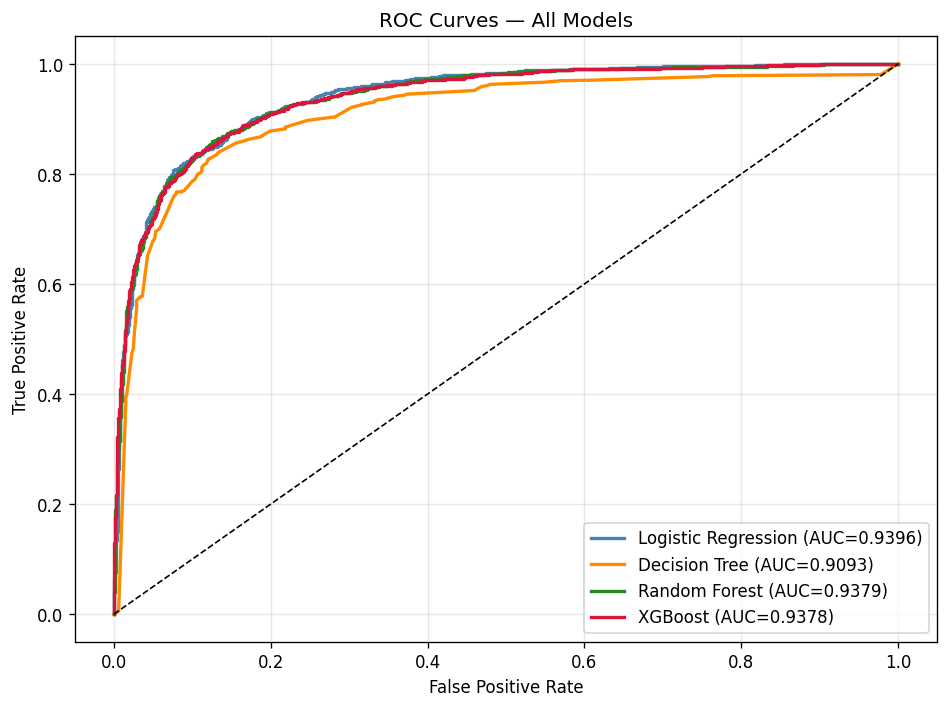
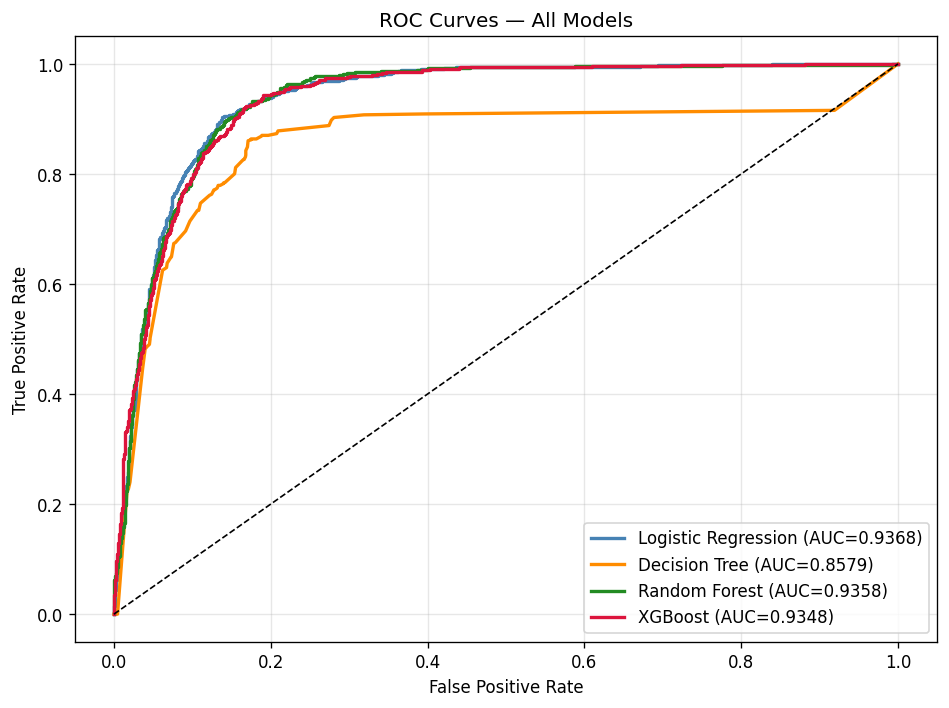
train_model.py, shap_service.py, ml_service.py

Changed region(s): [[0.0917, 0.0621, 0.9473, 0.8701], [0.8556, 0.7768, 0.9168, 0.8079], [0.9473, 0.7458, 0.9779, 0.7768]]

diff --git a/backend/ml/train_model.py b/backend/ml/train_model.py
@@ -160,11 +160,11 @@ best_name = max(results, key=lambda n: results[n]['auc'])
 best      = results[best_name]
 print(f"\n✅ Best model: {best_name}  (AUC={best['auc']:.4f})")
 
-os.makedirs('saved_models', exist_ok=True)
-joblib.dump(best['model'],  'saved_models/best_model.pkl')
-joblib.dump(scaler,          'saved_models/scaler.pkl')
-joblib.dump(encoders,        'saved_models/label_encoders.pkl')
-joblib.dump(FEATURES,        'saved_models/feature_names.pkl')
+# os.makedirs('saved_models', exist_ok=True)
+joblib.dump(best['model'],  'backend/ml/saved_models/best_model.pkl')
+joblib.dump(scaler,          'backend/ml/saved_models/scaler.pkl')
+joblib.dump(encoders,        'backend/ml/saved_models/label_encoders.pkl')
+joblib.dump(FEATURES,        'backend/ml/saved_models/feature_names.pkl')
 
 # Save model metadata
 meta = {
@@ -179,7 +179,7 @@ meta = {
         for n, r in results.items()
     }
 }
-with open('saved_models/model_meta.json','w') as f:
+with open('backend/ml/saved_models/model_meta.json','w') as f:
     json.dump(meta, f, indent=2)
 print("   Artifacts saved: best_model.pkl, scaler.pkl, label_encoders.pkl, feature_names.pkl")
 
@@ -196,9 +196,9 @@ plt.title('ROC Curves — All Models')
 plt.legend(loc='lower right')
 plt.grid(True, alpha=0.3)
 plt.tight_layout()
-plt.savefig('static/roc_curves.png', dpi=120, bbox_inches='tight')
+plt.savefig('backend/ml/static/roc_curves.png', dpi=120, bbox_inches='tight')
 plt.close()
-print("   ROC curve saved → static/roc_curves.png")
+print("   ROC curve saved → backend/ml/static/roc_curves.png")
 
 # ── Plot Feature Importance ────────────────────────────────────
 if hasattr(best['model'], 'feature_importances_'):
@@ -209,9 +209,9 @@ if hasattr(best['model'], 'feature_importances_'):
     plt.xlabel('Feature Importance')
     plt.title(f'Top 15 Feature Importances — {best_name}')
     plt.tight_layout()
-    plt.savefig('static/feature_importance.png', dpi=120, bbox_inches='tight')
+    plt.savefig('backend/ml/static/feature_importance.png', dpi=120, bbox_inches='tight')
     plt.close()
-    print("   Feature importance saved → static/feature_importance.png")
+    print("   Feature importance saved → backend/ml/static/feature_importance.png")
 
 # Code for confusion matrix and classification report
 cm = confusion_matrix(y_test, best['y_pred'])
@@ -220,8 +220,8 @@ sns.heatmap(cm, annot=True, fmt='d', cmap='Blues', cbar=False)
 plt.xlabel('Predicted'); plt.ylabel('Actual')
 plt.title(f'Confusion Matrix — {best_name}')
 plt.tight_layout()
-plt.savefig('static/confusion_matrix.png', dpi=120, bbox_inches='tight')
+plt.savefig('backend/ml/static/confusion_matrix.png', dpi=120, bbox_inches='tight')
 plt.close()
-print("   Confusion matrix saved → static/confusion_matrix.png")
+print("   Confusion matrix saved → backend/ml/static/confusion_matrix.png")
 
 print("\n🎉 Training complete!")

diff --git a/backend/app/services/ml_service.py b/backend/app/services/ml_service.py
@@ -23,7 +23,7 @@ def build_feature_vector(data: LoanApplicationInput, feature_names: list) -> np.
     ext1         = float(data.ext_source_1 or 0.5)
     ext2         = float(data.ext_source_2 or 0.5)
     ext3         = float(data.ext_source_3 or 0.5)
-    dti_ratio    = annuity / (income + 1e-9)
+    dti_ratio    = annuity / ((income/12) + 1e-9)
     lti_ratio    = loan_amount / (income + 1e-9)
     ext_mean     = (ext1 + ext2 + ext3) / 3
 
